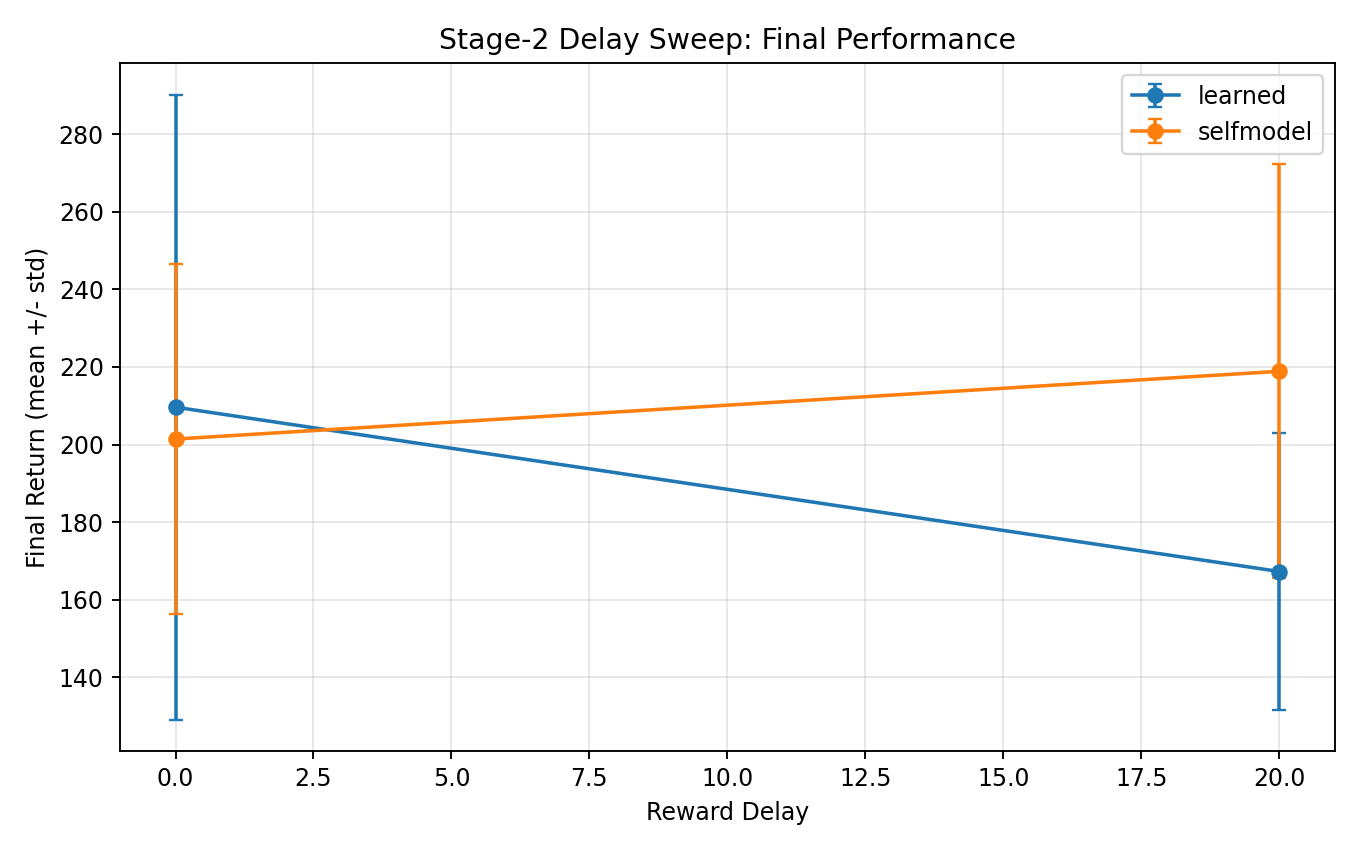
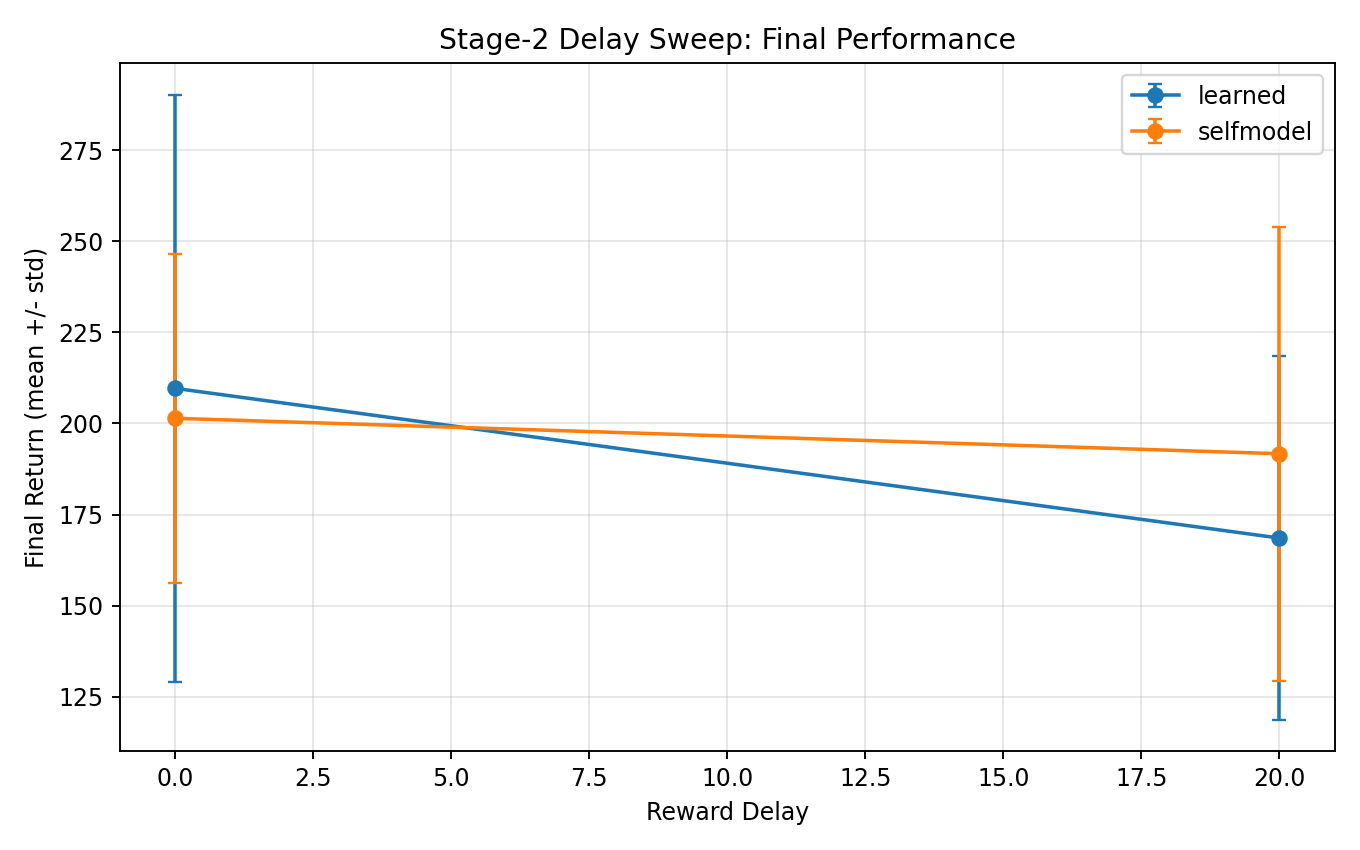
stage2_warmup_noerr_vs_learned_delay20_seed15

diff --git a/docs/stage2_delay_sweep_warmup_both20k_summary_2026-02-16.tex b/docs/stage2_delay_sweep_warmup_both20k_summary_2026-02-16.tex
@@ -3,6 +3,6 @@
 delay & root & baseline_condition & selfmodel_condition & baseline_final_mean & baseline_final_std & selfmodel_final_mean & selfmodel_final_std & delta_final_mean & delta_final_std & delta_final_ci95_low & delta_final_ci95_high & delta_final_n_pairs & delta_final_n_positive & delta_final_n_negative & baseline_auc_mean & baseline_auc_std & selfmodel_auc_mean & selfmodel_auc_std & delta_auc_mean & delta_auc_std & delta_auc_ci95_low & delta_auc_ci95_high & delta_auc_n_pairs & delta_auc_n_positive & delta_auc_n_negative \\
 \midrule
 0 & runs/sweeps/stage2_delay_sweep_warmup_both20k_v1/delay0 & learned_tau_delay10 & learned_tau_delay10_selfmodel & 209.623 & 80.576 & 201.410 & 45.060 & -8.213 & 74.086 & -60.208 & 61.949 & 5.000 & 1.000 & 4.000 & 160.202 & 37.396 & 157.875 & 18.717 & -2.327 & 36.439 & -29.227 & 33.718 & 5.000 & 2.000 & 3.000 \\
-20 & runs/sweeps/stage2_delay_sweep_warmup_both20k_v1/delay20 & learned_tau_delay10 & learned_tau_delay10_selfmodel & 167.254 & 35.821 & 218.873 & 53.356 & 51.619 & 65.307 & -9.841 & 101.251 & 5.000 & 4.000 & 1.000 & 175.482 & 51.874 & 156.083 & 27.245 & -19.399 & 71.608 & -78.412 & 48.266 & 5.000 & 2.000 & 3.000 \\
+20 & runs/sweeps/stage2_delay_sweep_warmup_both20k_v1/delay20 & learned_tau_delay10 & learned_tau_delay10_selfmodel & 168.553 & 49.841 & 191.685 & 62.335 & 23.131 & 84.747 & -20.684 & 64.190 & 15.000 & 9.000 & 6.000 & 155.217 & 49.330 & 140.906 & 25.623 & -14.311 & 59.793 & -44.870 & 15.791 & 15.000 & 9.000 & 6.000 \\
 \bottomrule
 \end{tabular}

diff --git a/docs/stage2_delay_warmup_delay20_paired_2026-02-16.tex b/docs/stage2_delay_warmup_delay20_paired_2026-02-16.tex
@@ -2,7 +2,7 @@
 \toprule
 anchor & comparator & metric & n_pairs & delta_mean & delta_std & ci95_low & ci95_high & delta_min & delta_max & n_positive & n_negative & n_zero \\
 \midrule
-learned_tau_delay10_selfmodel & learned_tau_delay10 & final_mean & 5 & 51.619 & 65.307 & -9.841 & 101.251 & -63.485 & 127.055 & 4 & 1 & 0 \\
-learned_tau_delay10_selfmodel & learned_tau_delay10 & auc & 5 & -19.399 & 71.608 & -78.412 & 48.266 & -109.379 & 88.310 & 2 & 3 & 0 \\
+learned_tau_delay10_selfmodel & learned_tau_delay10 & final_mean & 15 & 23.131 & 84.747 & -20.684 & 64.190 & -170.140 & 139.125 & 9 & 6 & 0 \\
+learned_tau_delay10_selfmodel & learned_tau_delay10 & auc & 15 & -14.311 & 59.793 & -44.870 & 15.791 & -121.033 & 88.310 & 9 & 6 & 0 \\
 \bottomrule
 \end{tabular}

diff --git a/docs/stage2_delay_warmup_groupdiff_2026-02-16.tex b/docs/stage2_delay_warmup_groupdiff_2026-02-16.tex
@@ -1,0 +1,8 @@
+\begin{tabular}{lrllllllllllrrr}
+\toprule
+metric & n_seeds & low_delays & high_delays & low_delta_mean & low_delta_std & high_delta_mean & high_delta_std & group_diff_mean & group_diff_std & group_diff_ci95_low & group_diff_ci95_high & n_positive & n_negative & n_zero \\
+\midrule
+final_mean & 5 & 0 & 20 & -8.213 & 74.086 & 51.619 & 65.307 & 59.832 & 57.977 & 8.201 & 111.632 & 3 & 2 & 0 \\
+auc & 5 & 0 & 20 & -2.327 & 36.439 & -19.399 & 71.608 & -17.072 & 55.324 & -64.343 & 31.859 & 2 & 3 & 0 \\
+\bottomrule
+\end{tabular}

diff --git a/docs/stage2_delay_warmup_both20k_noerr_vs_learned_paired_2026-02-16.tex b/docs/stage2_delay_warmup_both20k_noerr_vs_learned_paired_2026-02-16.tex
@@ -1,0 +1,8 @@
+\begin{tabular}{lllrllllllrrr}
+\toprule
+anchor & comparator & metric & n_pairs & delta_mean & delta_std & ci95_low & ci95_high & delta_min & delta_max & n_positive & n_negative & n_zero \\
+\midrule
+learned_tau_delay10_selfmodel_noerr & learned_tau_delay10 & final_mean & 30 & 24.342 & 105.703 & -10.996 & 64.059 & -148.080 & 350.905 & 19 & 11 & 0 \\
+learned_tau_delay10_selfmodel_noerr & learned_tau_delay10 & auc & 30 & 9.309 & 47.323 & -7.395 & 26.280 & -85.404 & 149.693 & 17 & 13 & 0 \\
+\bottomrule
+\end{tabular}

diff --git a/docs/stage2_results_2026-02-16.md b/docs/stage2_results_2026-02-16.md
@@ -244,6 +244,7 @@ Machine-readable summary:
 - `docs/stage2_warmup_search_2026-02-16.csv`
 - `docs/stage2_delay_warmup_both20k_paired_2026-02-16.csv`
 - `docs/stage2_delay_warmup_both20k_noerr_paired_2026-02-16.csv`
+- `docs/stage2_delay_warmup_both20k_noerr_vs_learned_paired_2026-02-16.csv`
 
 Seed-30 confirm (`both20k`, root `runs/sweeps/stage2_delay_delaybiased_warmup_both20k_v1`):
 
@@ -251,6 +252,8 @@ Seed-30 confirm (`both20k`, root `runs/sweeps/stage2_delay_delaybiased_warmup_bo
 - Paired AUC delta (`selfmodel - learned`, `n_pairs=30`): `+13.615` (CI `[-11.065, 40.145]`)
 - Paired final delta (`selfmodel - noerr`, `n_pairs=30`): `+19.698` (CI `[-28.252, 65.353]`)
 - Paired AUC delta (`selfmodel - noerr`, `n_pairs=30`): `+4.307` (CI `[-23.792, 32.134]`)
+- Paired final delta (`noerr - learned`, `n_pairs=30`): `+24.342` (CI `[-10.996, 64.059]`)
+- Paired AUC delta (`noerr - learned`, `n_pairs=30`): `+9.309` (CI `[-7.395, 26.280]`)
 
 Interpretation:
 
@@ -258,9 +261,10 @@ Interpretation:
 - This fixes the main performance claim for warmup on `delay=10` under the current protocol.
 - AUC remains direction-positive but not conclusive at 95% CI.
 - Under warmup, `selfmodel - noerr` is direction-positive but not conclusive at 95% CI, so causal claims for warmup remain weaker than the non-warmup noerr ablation.
+- `noerr - learned` is also direction-positive but inconclusive, which suggests warmup can partially lift noerr and reduce separation between `selfmodel` and `noerr`.
 - `tauonly50k` and `lambdaonly50k` both underperformed, indicating that balanced short warmup is the stable direction rather than one-sided long warmup.
 
-## Warmup Delay Sanity (0 vs 20, 5 Seeds)
+## Warmup Delay Sanity (0 vs 20, Low-Cost)
 
 To check whether warmup gains are specific to `delay=10`, we ran a low-cost sanity sweep:
 
@@ -269,7 +273,9 @@ To check whether warmup gains are specific to `delay=10`, we ran a low-cost sani
 - Time regularization: `time_reg.lambda_mean=1e-3`, `time_reg.lambda_var=1e-2`
 - Conditions: `learned_tau_delay10` vs `learned_tau_delay10_selfmodel`
 - Delays: `0`, `20`
-- Budget: 5 seeds per delay
+- Budget:
+  - `delay=0`: 5 seeds
+  - `delay=20`: 15 seeds
 
 Artifacts:
 
@@ -283,17 +289,41 @@ Artifacts:
 Paired final deltas (`selfmodel - learned`):
 
 - `delay=0`: `-8.213` (CI `[-60.208, 61.949]`)
-- `delay=20`: `+51.619` (CI `[-9.841, 101.251]`)
+- `delay=20`: `+23.131` (CI `[-20.684, 64.190]`)
 
 Paired AUC deltas (`selfmodel - learned`):
 
 - `delay=0`: `-2.327` (CI `[-29.227, 33.718]`)
-- `delay=20`: `-19.399` (CI `[-78.412, 48.266]`)
+- `delay=20`: `-14.311` (CI `[-44.870, 15.791]`)
 
 Interpretation:
 
 - Directionally, warmup remains consistent with low-delay non-gain (`delay=0`) and higher-delay positive final delta (`delay=20`).
-- At 5 seeds, both delay points still cross zero, so this is a sanity trend, not a significance claim.
+- `delay=20` remains direction-positive after adding seeds, but still crosses zero, so this is still a trend-level sanity result.
+
+## Warmup Delay Group Difference (0 vs 20, Seed-Matched)
+
+We computed a seed-matched group contrast on warmup sweep deltas:
+
+- Low-delay group: `delay={0}`
+- High-delay group: `delay={20}`
+- Delta definition: `selfmodel - learned`
+
+Artifacts:
+
+- `docs/stage2_delay_warmup_groupdiff_2026-02-16.csv`
+- `docs/stage2_delay_warmup_groupdiff_per_seed_2026-02-16.csv`
+- `docs/stage2_delay_warmup_groupdiff_2026-02-16.tex`
+
+Results (bootstrap 95% CI, intersection seeds across groups):
+
+- `final_mean`: group diff (`high - low`) = `+59.832` (CI `[8.201, 111.632]`)
+- `AUC`: group diff (`high - low`) = `-17.072` (CI `[-64.343, 31.859]`)
+
+Interpretation:
+
+- Final-score group contrast is positive on the shared-seed subset, consistent with stronger gains at higher delay.
+- Because current group matching uses shared seeds (limited by `delay=0` seed count), this supports trend direction but not a full-budget claim yet.
 
 ## Figures
 
